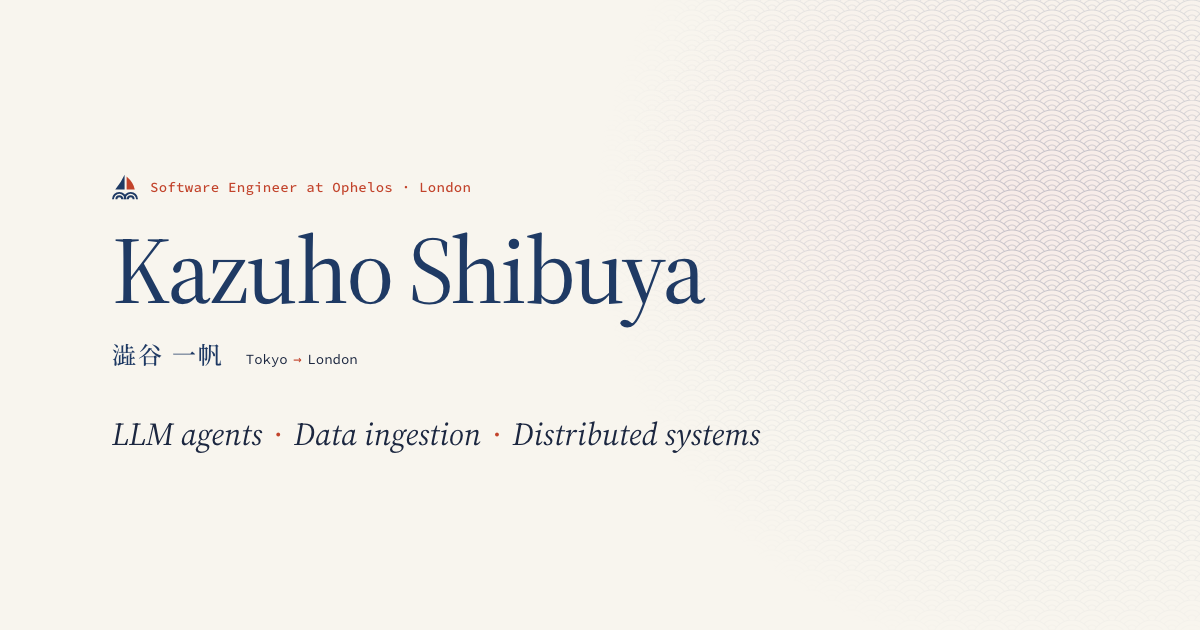
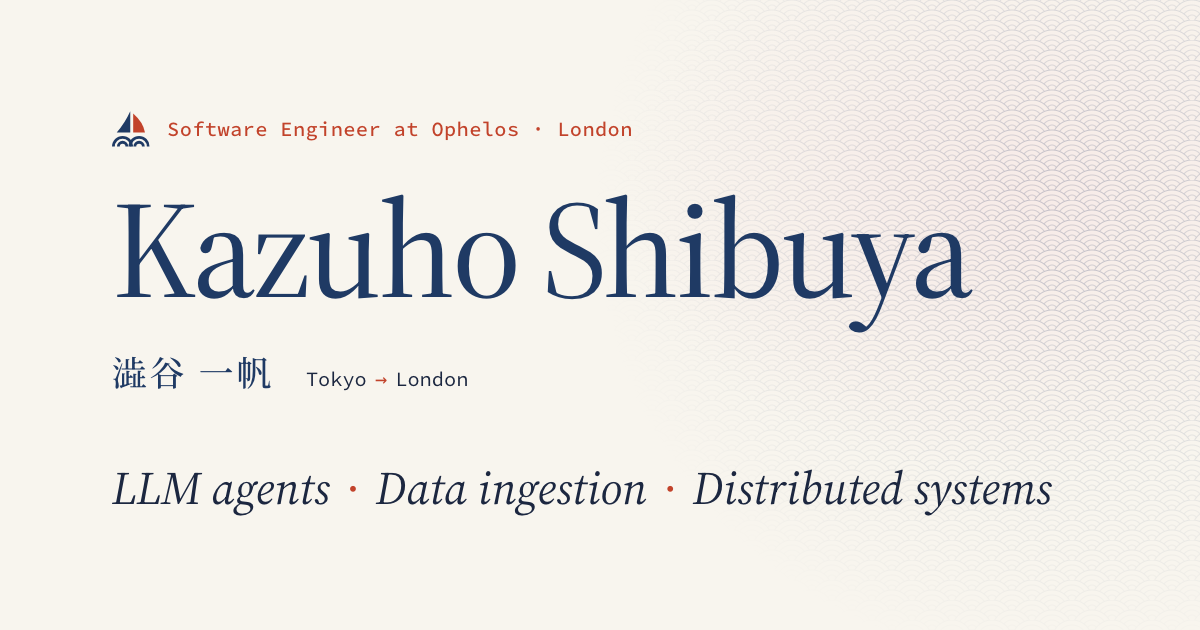
Draw the link preview 1.45x larger so LinkedIn's 480px copy stays legible
LinkedIn stores shared images as a 480px-wide copy, which turned the small
lines to mush. The preview now scales the header 1.45x, keeping every line;
a test requires the name to span more than 70% of the image.

diff --git a/tests/quality.spec.js b/tests/quality.spec.js
@@ -5,6 +5,7 @@ const crypto = require("crypto");
 const fs = require("fs");
 const path = require("path");
 const { DESKTOP, open } = require("./helpers");
+const { SIZE, showPreview } = require("../scripts/render-og");
 
 test("the only scripts are the theme choice, the page script and Cloudflare's visitor count", async ({ page }) => {
   await open(page, DESKTOP);
@@ -79,6 +80,18 @@ test("shared links show a 1200x630 preview image with alt text", async ({ page, 
   const colours = new Set();
   for (let i = 0; i < png.data.length; i += 4 * 97) colours.add(png.data.readUInt32BE(i));
   expect(colours.size, "a blank image has one colour").toBeGreaterThan(10);
+});
+
+test("in the link preview, the name spans most of the image so it stays readable at LinkedIn's 480px copy", async ({ page }) => {
+  await open(page, SIZE);
+  await showPreview(page);
+  // The heading is a full-width block, so measure the text inside it.
+  const nameWidth = await page.locator(".hero h1").evaluate((h1) => {
+    const range = document.createRange();
+    range.selectNodeContents(h1);
+    return range.getBoundingClientRect().width;
+  });
+  expect(nameWidth / SIZE.width).toBeGreaterThan(0.7);
 });
 
 const PUBLIC = path.join(__dirname, "../public");

diff --git a/scripts/render-og.js b/scripts/render-og.js
@@ -6,9 +6,10 @@ const ROOT = path.join(__dirname, "..");
 const OUTPUT = path.join(ROOT, "public/og.png");
 const SIZE = { width: 1200, height: 630 };
 const FONTS = ["Source Serif 4", "Source Sans 3", "Source Code Pro", "Noto Serif JP"];
-// Links cannot be clicked in an image, and the small facts row is unreadable at preview size.
+// Hide what an image cannot use, and draw the header 1.45x so LinkedIn's 480px copy stays legible.
 const PREVIEW_STYLE = [
   ".theme, .links.contact, .facts, main, footer.site { display: none !important; }",
+  ".hero > *:not(.wave) { zoom: 1.45; }",
   ".hero { min-height: 630px; padding: 0 !important; display: flex; flex-direction: column; justify-content: center; }",
 ].join("\n");
 
